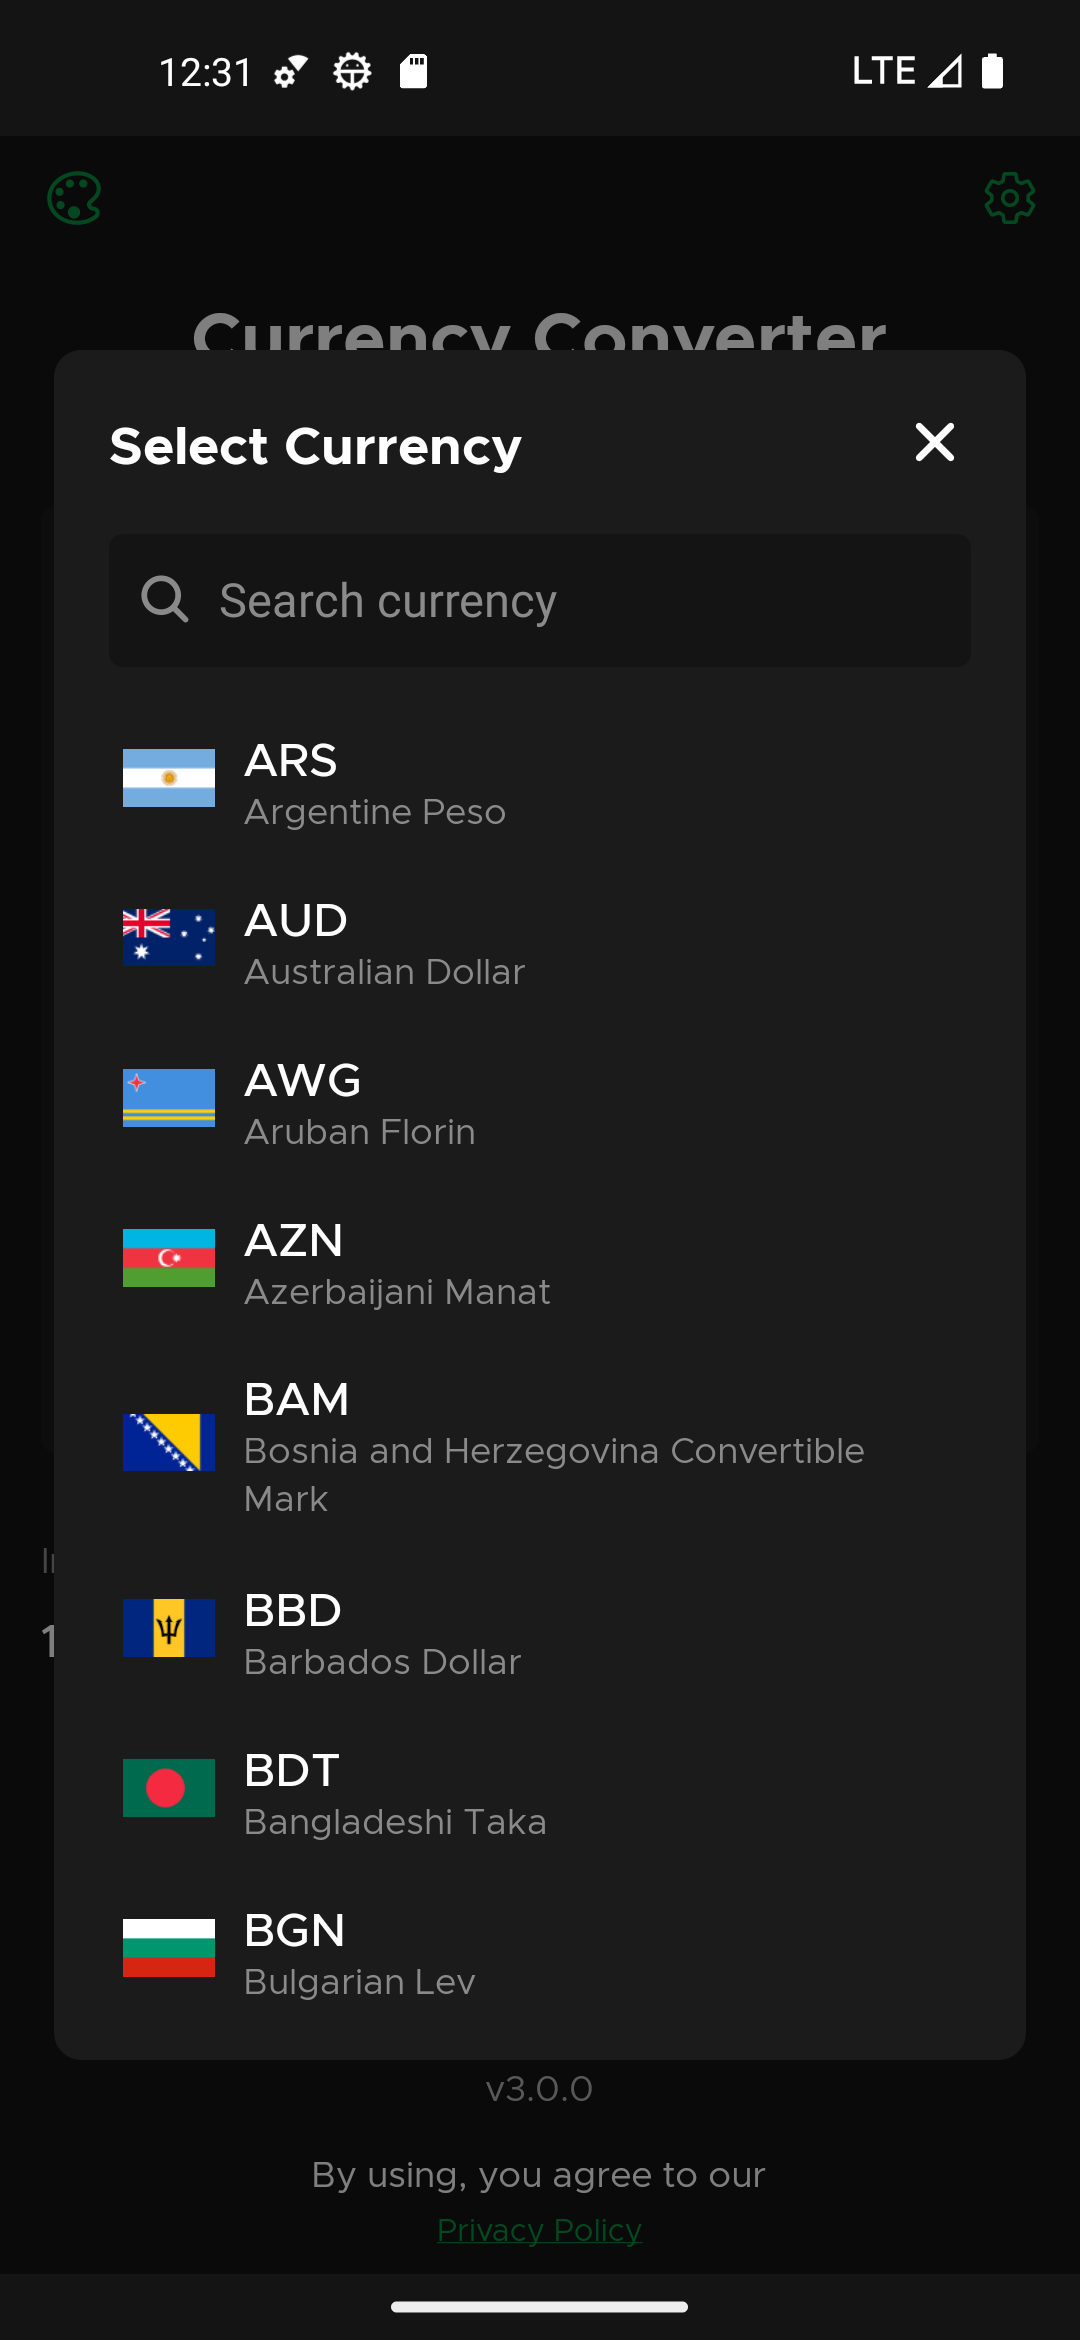
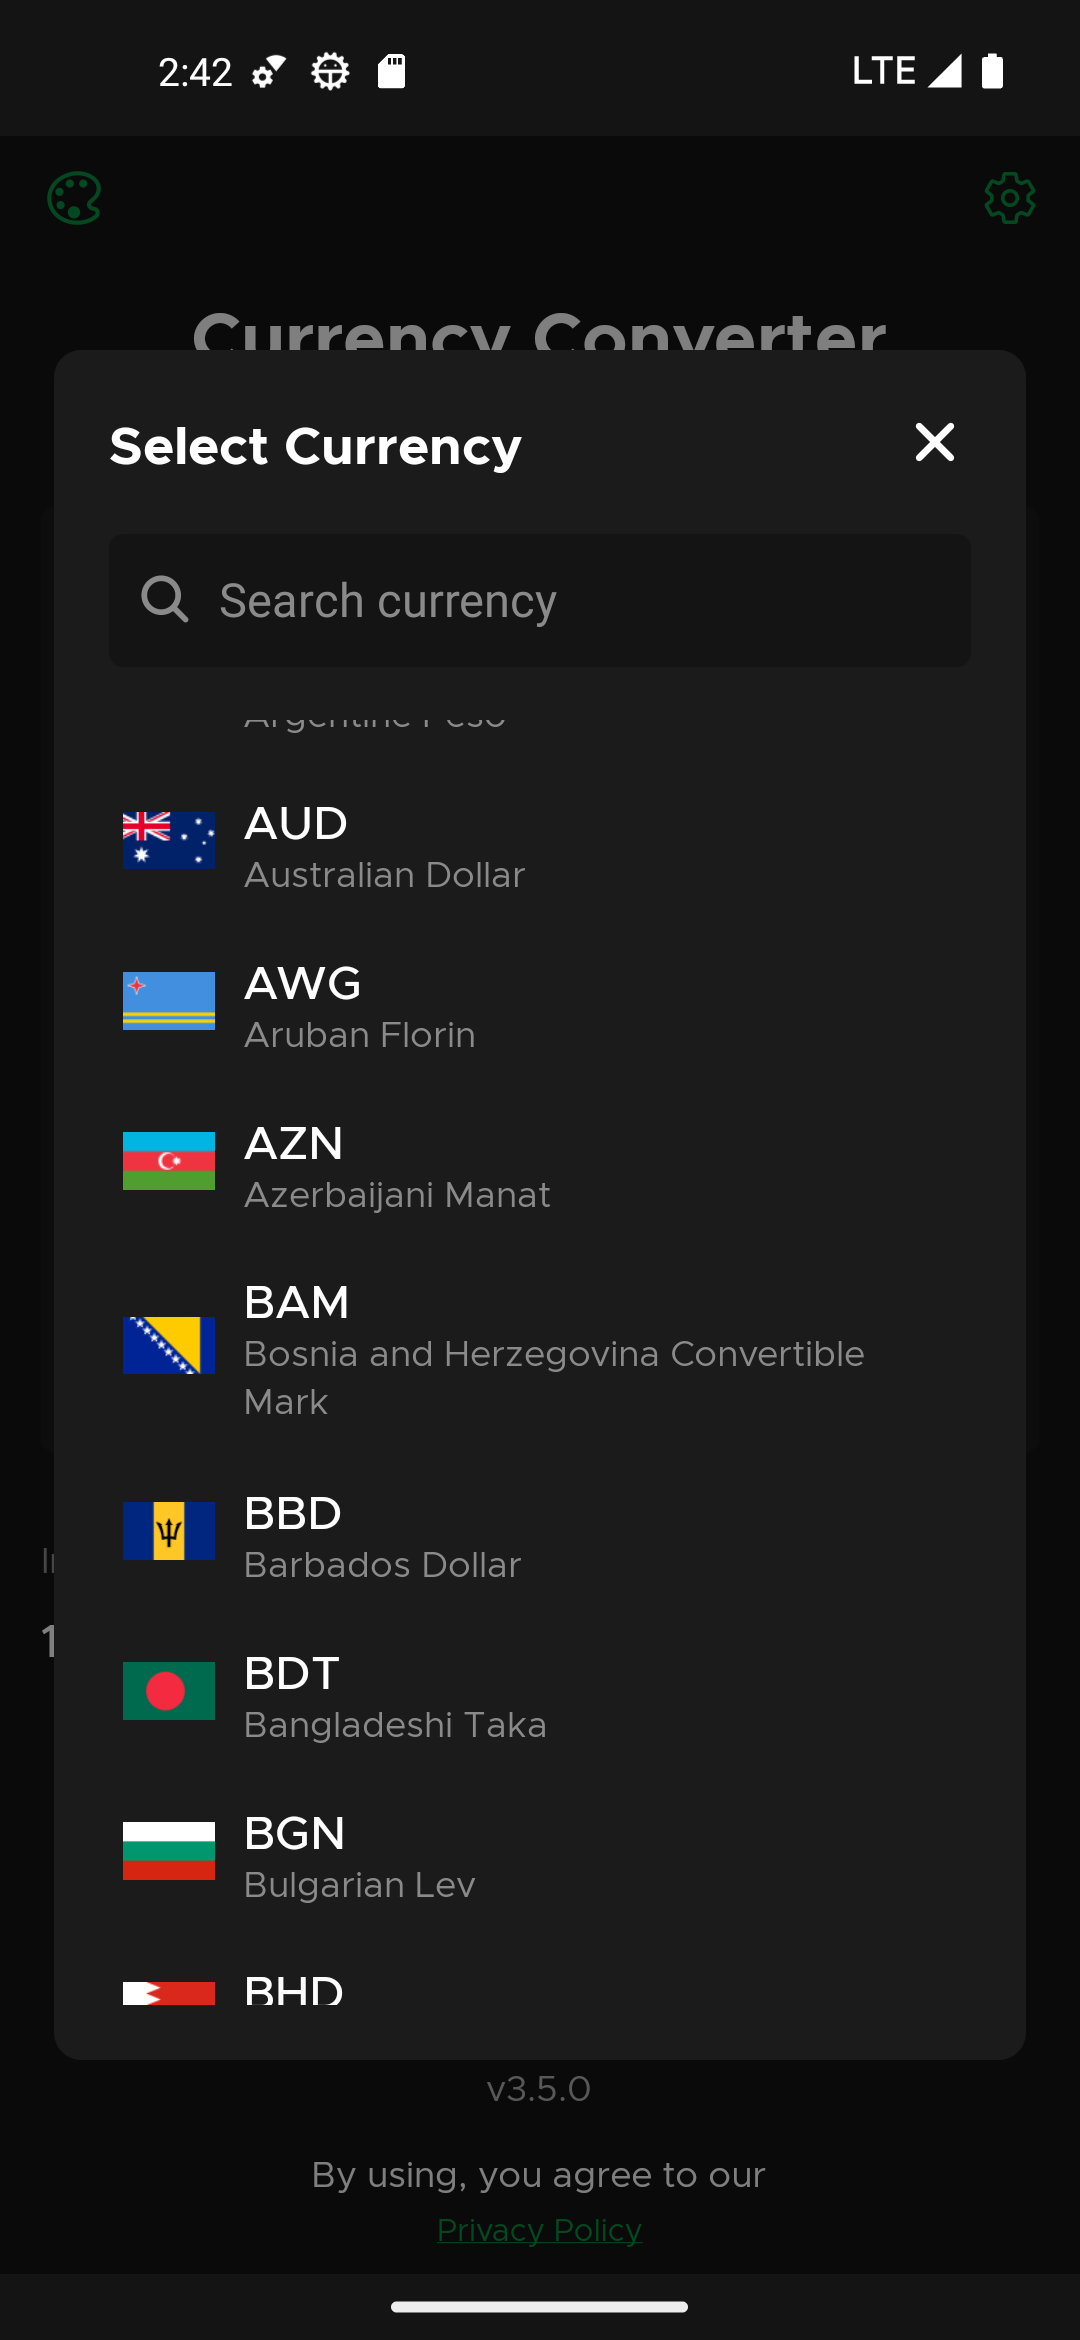
Update README.md to replace feedback screen with help screen and update corresponding screenshots. Modify currency modal image and retain history screenshot.

diff --git a/README.md b/README.md
@@ -35,8 +35,8 @@ A modern currency converter application built with React Native and Expo, featur
 | Home Screen (Light)                              | Home Screen (Dark)                             | Currency Modal                                           |
 | ------------------------------------------------ | ---------------------------------------------- | -------------------------------------------------------- |
 | ![Home Light](assets/screenshots/home-light.png) | ![Home Dark](assets/screenshots/home-dark.png) | ![Currency Modal](assets/screenshots/currenct-modal.png) |
-| Conversion History                               | Feedback                                       |                                                          |
-| ![History](assets/screenshots/history.png)       | ![Feedback](assets/screenshots/feedback.png)   |                                                          |
+| Conversion History                               | Help Screen                                    |                                                          |
+| ![History](assets/screenshots/history.png)       | ![Help](assets/screenshots/help-screen.png)    |                                                          |
 
 ## Tech Stack
 
